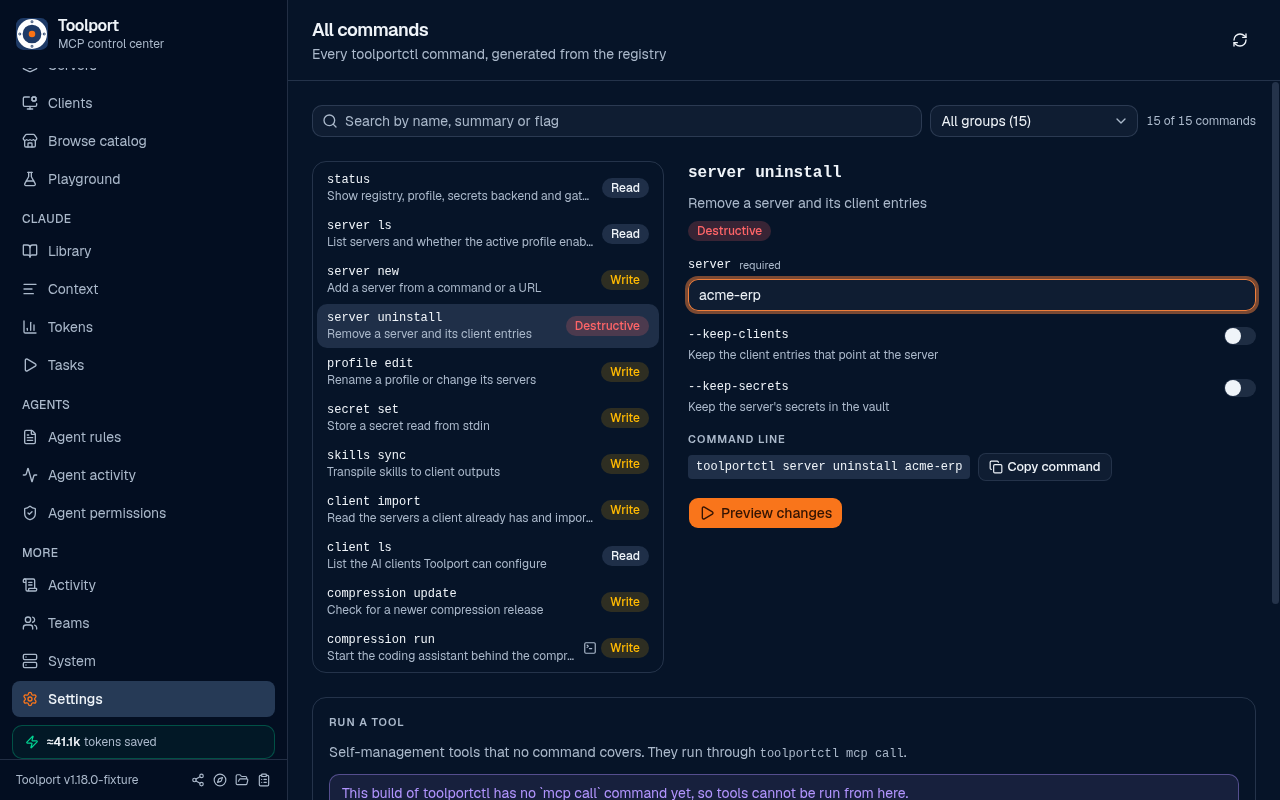
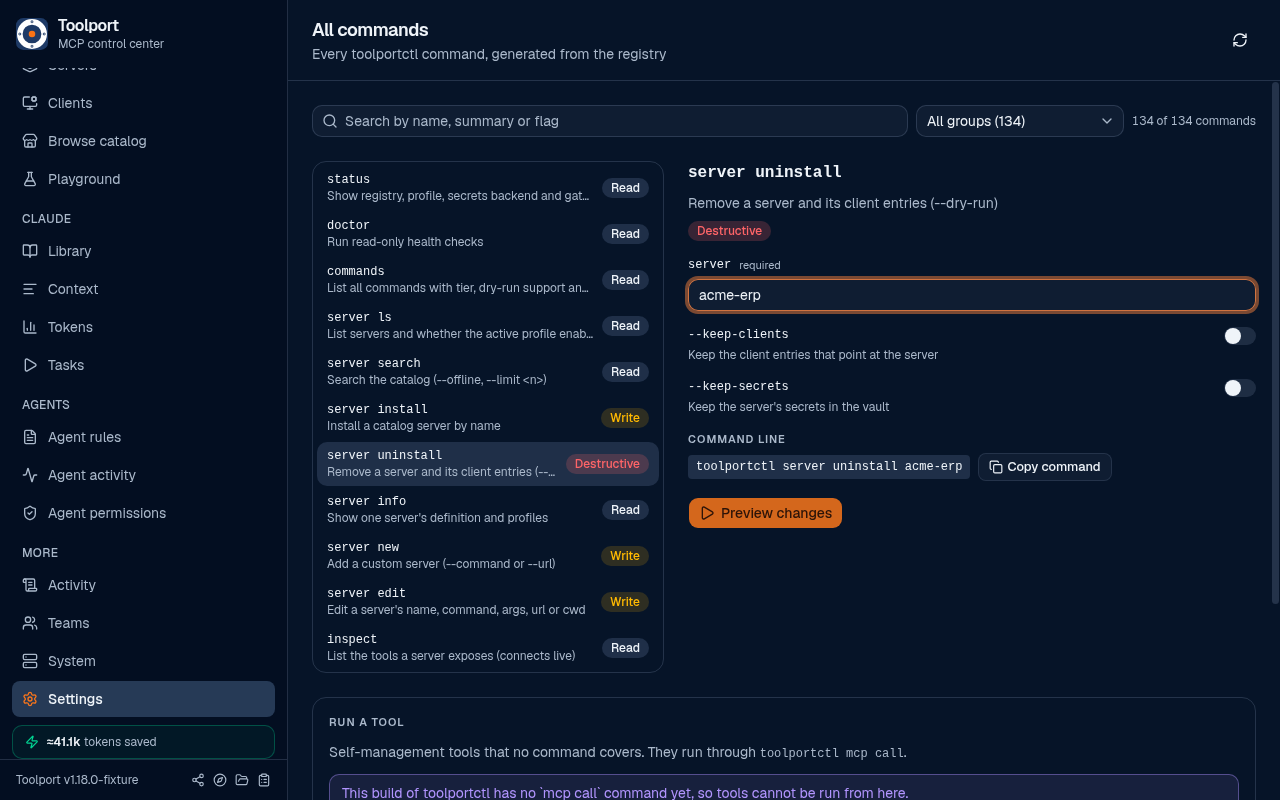
[ADD] plus/servers: browser smoke walk, screenshots and docs
Smoke walks the tabs and the plan and typed-confirm dialogs and writes the gui-servers shots; docs list the folder, shots and upstream edits.

diff --git a/docs/toolport-plus.md b/docs/toolport-plus.md
@@ -143,15 +143,29 @@ To add a command: one `case(...)` row, bless, read the new file, add the shape t
 | `gui-library-light.png`                   | A screen that is not built yet: the tabs of the mockup and the marked notice |
 | `gui-auth-rows.png`, `gui-what-loads.png` | Element shots of the login health and the "what loads" panels                |
 
+The Servers screen (MIG-GUI-1) adds:
+
+| File                                    | Shows                                                                           |
+| --------------------------------------- | ------------------------------------------------------------------------------- |
+| `gui-servers-light.png`, `-dark`        | Servers grouped by attention, a server that needs a login with its live inspect |
+| `gui-servers-gateway-light.png`         | Element shot of the gateway strip                                               |
+| `gui-servers-plan-light.png`            | The preview of a write (a server switched on in a profile) before Apply         |
+| `gui-servers-remove-light.png`          | The typed confirmation of removing a server, with its plan                      |
+| `gui-servers-profiles-light.png`        | The Profiles tab                                                                |
+| `gui-servers-profile-inspect-light.png` | A profile inspected while one of its servers needs a login                      |
+| `gui-servers-clients-light.png`         | The Clients tab: what each client sees, and the orphan list                     |
+| `gui-servers-health-light.png`          | The Health tab: status facts, named fixes and the doctor checks                 |
+
 ## Frontend shell, UI kit and All commands page
 
 `src/plus/` after MIG-GUI-0:
 
 - `bridge/` runs `toolportctl --json` as a child process and types what comes back (`ctl.ts`, `data.ts`, `shape.ts`).
 - `ui/` is the kit every Toolport+ screen is built from (below).
-- `nav.ts` holds the grouped sidebar B (`NAV_GROUPS`, 16 items, labels as in the approved mockup), the title and subtitle of each Toolport+ screen (`PLUS_SCREENS`) and the item that builds each. The tabs of the mockup live in `notBuiltTabs.ts`, which only the placeholder reads, so they stay out of the startup bundle. `SidebarNav.tsx` draws the groups with the sidebar's own row, `attention.ts` reads the Attention counter.
+- `nav.ts` holds the grouped sidebar B (`NAV_GROUPS`, 16 items, labels as in the approved mockup; the Servers entry opens the Toolport+ view `control`, and the upstream `servers` view is lit under it), the title and subtitle of each Toolport+ screen (`PLUS_SCREENS`) and the item that builds each. The tabs of the mockup live in `notBuiltTabs.ts`, which only the placeholder reads, so they stay out of the startup bundle. `SidebarNav.tsx` draws the groups with the sidebar's own row, `attention.ts` reads the Attention counter.
 - `PlusViews.tsx` is the one entry for Toolport+ screens; each is a `React.lazy` chunk. `NotBuilt.tsx` is the marked placeholder (tabs of the mockup, a "Not built yet" notice naming the item, a button to the All commands page on the right command group).
 - `allcommands/` is the All commands page.
+- `servers/` is the Servers screen (MIG-GUI-1, below).
 
 **Adding a screen.** Put it under `src/plus/<screen>/`, import it with `React.lazy` in `PlusViews.tsx` in place of the `NotBuilt` branch, add its view to `PLUS_VIEWS` if it is new, and flip its rows in `gui-parity.json`. A screen reads data with `useCtlQuery` inside `AsyncView` (skeleton, error with Retry and "Copy diagnostics", empty) so it never renders nothing, and writes through the preview, confirm and apply flow below.
 
@@ -174,6 +188,15 @@ To add a command: one `case(...)` row, bless, read the new file, add the shape t
 - A terminal-only command shows its exact command line and a Copy button, never a Run button.
 - "Run a tool" calls `toolportctl mcp call <tool> --args-stdin` for tools that no command covers (arguments as JSON on stdin; `dry_run` and `confirm` per the tool's tier). It is disabled, with a tooltip and a note, while `commands --json` has no `mcp call` row.
 
+**Servers (`src/plus/servers/`).** The control center: tabs Servers, Profiles, Clients and Health (Logins, Secrets and Integrations are placeholder slots until MIG-GUI-2), a gateway strip above them, a "Run doctor" button and, on the Servers tab, a "Classic view" button. Every read is one `toolportctl --json` call through `ServersProvider` (`server ls`, `profile ls`, `client ls`, `status`, polled and kept on screen when a reload fails); every write goes through `useWrite`.
+
+- **State** is derived in `model.ts` from `server ls`, `status` (gateway, tool cache, `auth.servers`), `profile ls` and `client ls`: connected, login needed, failed (with the CLI's reason), disabled. Servers are grouped by attention. "What a client sees" is the tool count per server of the profile the client uses.
+- **Writes** follow D-059 and D-081 (`plans.ts`, `useWrite.tsx`, `WriteDialogs.tsx`): a command with a dry-run flag is previewed with it, then confirmed, applied and shown with its undo; a command without one (`server new`, `server install`, `server edit`) is confirmed with its exact command line and a client-side plan marked "no preview"; only a `destructive` row asks for a typed phrase. `direct run` is a terminal-surface action: the command is shown with Copy and "Open in Terminal" stays disabled.
+- **Profile inspect** runs `profile inspect`; when that stops at the first failing server (a 401), the dialog asks each server with `inspect` (three at a time) and shows what answered, who needs a login and why.
+- **Dialogs** have no trigger element, so `useRestoreFocus` returns focus to the control that opened a dialog once the last one closes.
+- **View id and the Classic view (D-088).** The screen is the view `control`; the sidebar entry labelled Servers opens it. The upstream `servers` view and its page are untouched, so the health filter (Checking, Ready, Disabled), the team-enable review dialog and the upstream tests stay reachable and green: "Classic view" in the header of the Servers tab opens it, and the sidebar entry stays lit there. The app still starts on the upstream view. The button is not in the mockup; whether it stays is judged on the Mac.
+- **Fixtures:** `fixtures/servers.ts` is one synthetic registry (eight servers including a failing one and two that need a login, three profiles, four clients, direct entries, a doctor with a named fix) served by the dev browser fixture and the tests; `servers/testkit.ts` is the fake bridge.
+
 **Edits to upstream files.** Everything else is under `src/plus/`.
 
 | File                                 | Edit                                                                                                                                                         |
@@ -187,6 +210,17 @@ To add a command: one `case(...)` row, bless, read the new file, add the shape t
 | `scripts/screenshots-gui.mjs`        | renamed to `scripts/screenshots.mjs`                                                                                                                         |
 | `package.json`                       | `screenshots:gui` points at `scripts/screenshots.mjs`                                                                                                        |
 | `src/plus/gui-parity.json`           | the `all-commands` route and its `run` and `terminal` actions are `built`; `tool` stays `planned` until the CLI has `mcp call`                               |
+
+MIG-GUI-1 edits:
+
+| File                                       | Edit                                                                                                                                                                                                                             |
+| ------------------------------------------ | -------------------------------------------------------------------------------------------------------------------------------------------------------------------------------------------------------------------------------- |
+| `src/App.tsx`, `src/lib/types.ts`          | not edited (D-088): the upstream `servers` view, its header controls, the first view and every upstream App test stay as they are; `View` already includes `PlusView`, so `control` needs no line there                          |
+| `src/plus/nav.ts`, `PlusViews.tsx`         | `control` joins `PLUS_VIEWS` and `PLUS_SCREENS`; the Servers entry of `NAV_GROUPS` opens it; `servers` lives under that entry (`LIVES_UNDER`), so the entry is lit on both; `PlusViews` lazy-loads `ServersScreen` for `control` |
+| `src/plus/gui-parity.json`, `guiParity.ts` | route `servers` (view `control`; `GuiRoute.view` names the view when it differs from the route id) and 23 `servers.*` actions; 23 commands and 12 tools point at them                                                            |
+| `src/plus/fixtures/plusCtl.ts`             | the `status` and `commands` rows come from `fixtures/servers.ts`; a `FixtureFailure` makes a failed envelope                                                                                                                     |
+| `scripts/browser-smoke.mjs`                | `serversScreen` opens the Servers entry, walks the tabs and dialogs, writes the `gui-servers-*` shots and checks the Classic view round trip                                                                                     |
+| `scripts/screenshots.mjs`                  | the `gui-servers-*` page shots are checked for size                                                                                                                                                                              |
 
 ## Sources
 
